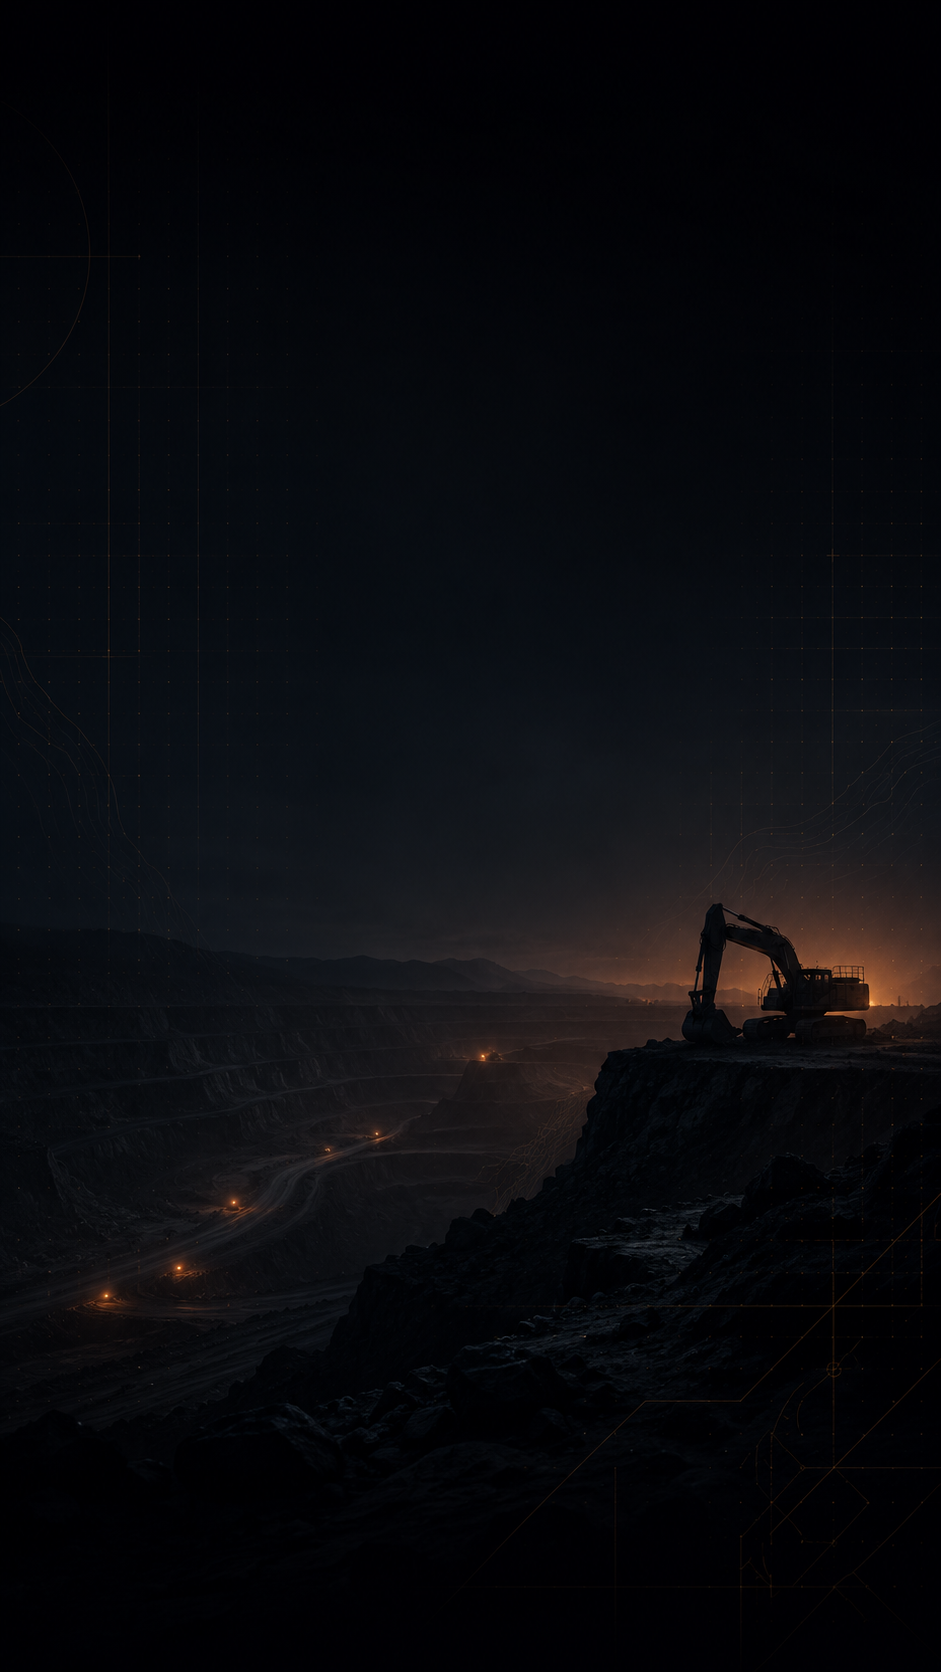
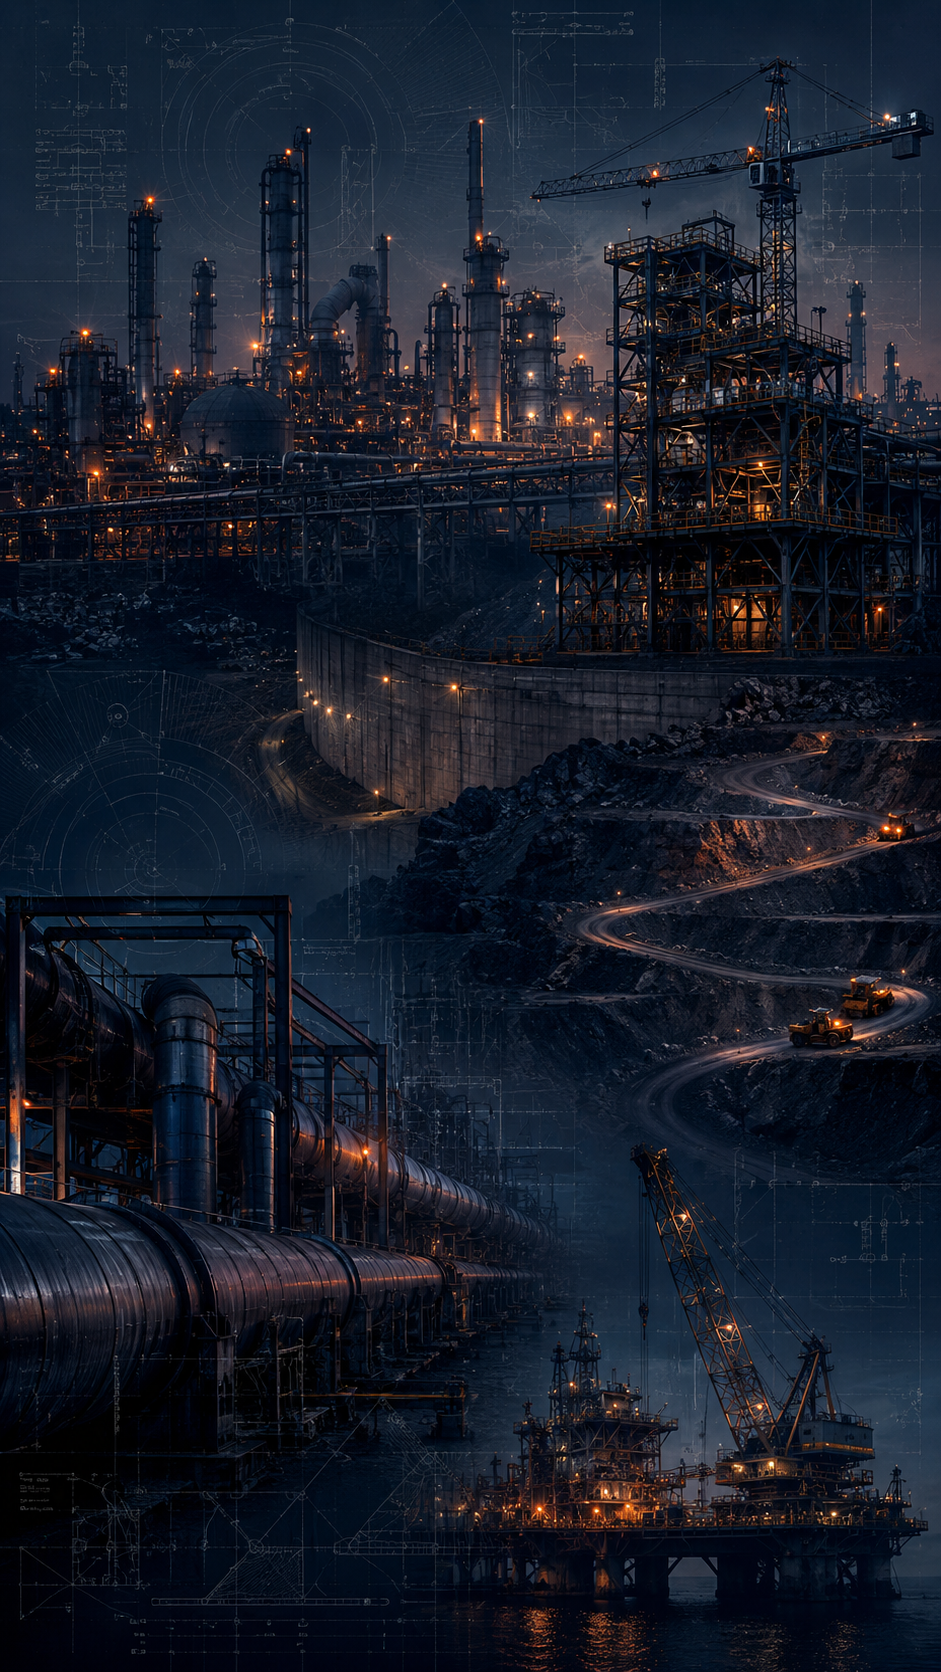
правки

diff --git a/tg-miniapp/src/pages/auth-page/index.tsx b/tg-miniapp/src/pages/auth-page/index.tsx
@@ -60,8 +60,8 @@ export function AuthPage() {
     <div className={s.page}>
       <div className={s.hero}>
         <Logo size={62} className={s.logo} />
-        <h1 className={s.heroTitle}>{step === "welcome" ? "Добро пожаловать!" : "Вход в аккаунт"}</h1>
-        {step === "welcome" && <p className={s.heroSub}>Войдите в аккаунт или создайте новый</p>}
+        <h1 className={s.heroTitle}>Добро пожаловать!</h1>
+        <p className={s.heroSub}>Войдите в аккаунт или создайте новый</p>
       </div>
 
       <div className={s.card}>

diff --git a/tg-miniapp/src/pages/auth-page/style.module.scss b/tg-miniapp/src/pages/auth-page/style.module.scss
@@ -6,13 +6,13 @@
   background-color: #0d0e13;
   background-image: linear-gradient(
       180deg,
-      rgba(13, 14, 19, 0.45) 0%,
-      rgba(13, 14, 19, 0.66) 58%,
-      rgba(13, 14, 19, 0.92) 100%
+      rgba(11, 12, 17, 0.25) 0%,
+      rgba(11, 12, 17, 0.15) 50%,
+      rgba(11, 12, 17, 0.7) 100%
     ),
     url("/auth-bg.png");
   background-size: cover;
-  background-position: center top;
+  background-position: center;
   background-repeat: no-repeat;
 }
 
